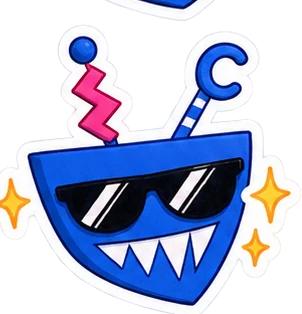
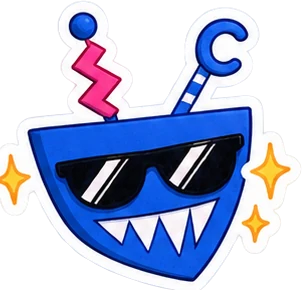
Stickers: drop neighbor fragments; mobile: section sticker no longer overlaps text
Claude-Session: https://claude.ai/code/session_01MMAr13SWE4zTUHVdE4TCR2

diff --git a/ru/index.html b/ru/index.html
@@ -10,7 +10,7 @@
 <link rel="icon" type="image/png" href="../assets/img/favicon-512.png">
 <link rel="apple-touch-icon" href="../apple-touch-icon.png">
 <link rel="preload" href="../assets/fonts/Rubik-cyrillic.woff2" as="font" type="font/woff2" crossorigin>
-<link rel="stylesheet" href="../assets/css/site.css?v=392585cb">
+<link rel="stylesheet" href="../assets/css/site.css?v=5940f699">
 <meta property="og:type" content="website">
 <meta property="og:title" content="Meeto Games (Митогеймс): онлайн-игры в браузере и игры для ПК — Погост, Проект: Реплика">
 <meta property="og:description" content="Meeto Games (Митогеймс) — инди-студия Дмитрия: бесплатные онлайн-игры в браузере без скачивания (Jelly Swirl, Машинки на рогатке, Липкий шар.io) и игры для ПК: готический шутер «Погост» и сетевой хоррор «Проект: Реплика».">
@@ -70,7 +70,7 @@
 </article></div>
 </div></section>
 <section class="sec" id="dev" style="padding-top:8px"><div class="wrap">
-  <div class="sec-head"><h2>В <span>разработке</span></h2><p>Большие и мрачные проекты для ПК, над которыми я работаю прямо сейчас.</p><img class="sticker " src="../assets/img/stickers/cool.webp" alt="" width="302" height="314" loading="lazy" style="--r:-7deg"></div>
+  <div class="sec-head"><h2>В <span>разработке</span></h2><p>Большие и мрачные проекты для ПК, над которыми я работаю прямо сейчас.</p><img class="sticker " src="../assets/img/stickers/cool.webp" alt="" width="302" height="290" loading="lazy" style="--r:-7deg"></div>
   <div class="games two"><article class="gcard dark">
   <a href="../ru/games/pogost/" tabindex="-1" aria-hidden="true" class="cover-link"><img class="cover" src="../assets/img/pogost/cover.webp" alt="" width="960" height="540" loading="lazy"><span class="badge">В разработке</span></a>
   <div class="body">
@@ -94,7 +94,7 @@
   <div class="sec-head"><h2>Обо <span>мне</span></h2></div>
   <div class="about">
     <img class="sticker hi" src="../assets/img/stickers/hi.webp" alt="" width="290" height="284" loading="lazy" style="--r:-5deg">
-    <div class="card"><img class="sticker love" src="../assets/img/stickers/love.webp" alt="" width="298" height="314" loading="lazy" style="--r:12deg"><h3>Привет! Меня зовут Дмитрий, можно просто Мито</h3><p>Я делаю игры в одиночку, а помогает мне в этом искусственный интеллект: код, графика, звук, тестирование. Так один человек может сделать работу небольшой команды.</p><p>Играю всю жизнь, с самого детства, и игры всегда были моим главным увлечением. Теперь я хочу делать качественные игры, в которые по-настоящему интересно играть.</p><p>Одни мои игры яркие и уютные, другие тёмные и страшные. Общее у них одно: внимание к тому, как игра ощущается в руках.</p><div class="where"><span class="chip"><svg viewBox="0 0 24 24" fill="none" stroke="currentColor" stroke-width="2.1" stroke-linecap="round" stroke-linejoin="round" aria-hidden="true"><rect x="2" y="4" width="14" height="10" rx="1.6"/><path d="M6 18h6M9 14v4"/><rect x="17" y="9" width="5" height="11" rx="1.2"/></svg>Браузер и ПК</span><span class="chip"><svg viewBox="0 0 24 24" fill="none" stroke="currentColor" stroke-width="2.1" stroke-linecap="round" stroke-linejoin="round" aria-hidden="true"><path d="M14 6 9 11l-5.5 5.5a2 2 0 0 0 2.8 2.8L12 14l5-5"/><path d="m13 3 8 8-2.5 2.5-8-8Z"/></svg>В одиночку с ИИ</span><span class="chip"><svg viewBox="0 0 24 24" fill="none" stroke="currentColor" stroke-width="2.1" stroke-linecap="round" stroke-linejoin="round" aria-hidden="true"><path d="m12 3 2.7 5.6 6.1.9-4.4 4.3 1 6.1L12 17l-5.4 2.9 1-6.1L3.2 9.5l6.1-.9Z"/></svg>Браузерные игры бесплатные</span></div></div>
+    <div class="card"><img class="sticker love" src="../assets/img/stickers/love.webp" alt="" width="298" height="296" loading="lazy" style="--r:12deg"><h3>Привет! Меня зовут Дмитрий, можно просто Мито</h3><p>Я делаю игры в одиночку, а помогает мне в этом искусственный интеллект: код, графика, звук, тестирование. Так один человек может сделать работу небольшой команды.</p><p>Играю всю жизнь, с самого детства, и игры всегда были моим главным увлечением. Теперь я хочу делать качественные игры, в которые по-настоящему интересно играть.</p><p>Одни мои игры яркие и уютные, другие тёмные и страшные. Общее у них одно: внимание к тому, как игра ощущается в руках.</p><div class="where"><span class="chip"><svg viewBox="0 0 24 24" fill="none" stroke="currentColor" stroke-width="2.1" stroke-linecap="round" stroke-linejoin="round" aria-hidden="true"><rect x="2" y="4" width="14" height="10" rx="1.6"/><path d="M6 18h6M9 14v4"/><rect x="17" y="9" width="5" height="11" rx="1.2"/></svg>Браузер и ПК</span><span class="chip"><svg viewBox="0 0 24 24" fill="none" stroke="currentColor" stroke-width="2.1" stroke-linecap="round" stroke-linejoin="round" aria-hidden="true"><path d="M14 6 9 11l-5.5 5.5a2 2 0 0 0 2.8 2.8L12 14l5-5"/><path d="m13 3 8 8-2.5 2.5-8-8Z"/></svg>В одиночку с ИИ</span><span class="chip"><svg viewBox="0 0 24 24" fill="none" stroke="currentColor" stroke-width="2.1" stroke-linecap="round" stroke-linejoin="round" aria-hidden="true"><path d="m12 3 2.7 5.6 6.1.9-4.4 4.3 1 6.1L12 17l-5.4 2.9 1-6.1L3.2 9.5l6.1-.9Z"/></svg>Браузерные игры бесплатные</span></div></div>
   </div>
 </div></section>
 </main>

diff --git a/index.html b/index.html
@@ -10,7 +10,7 @@
 <link rel="icon" type="image/png" href="assets/img/favicon-512.png">
 <link rel="apple-touch-icon" href="apple-touch-icon.png">
 <link rel="preload" href="assets/fonts/Rubik-latin.woff2" as="font" type="font/woff2" crossorigin>
-<link rel="stylesheet" href="assets/css/site.css?v=392585cb">
+<link rel="stylesheet" href="assets/css/site.css?v=5940f699">
 <meta property="og:type" content="website">
 <meta property="og:title" content="Meeto Games: free online browser games and PC games (Pogost, Project: Replica)">
 <meta property="og:description" content="Meeto Games is an indie studio by Dmitry: free online games you play right in your browser (Jelly Swirl, Toy Cars on a Slingshot, Sticky Roll.io) and PC games in development: the gothic shooter Pogost and the online horror Project: Replica.">
@@ -70,7 +70,7 @@
 </article></div>
 </div></section>
 <section class="sec" id="dev" style="padding-top:8px"><div class="wrap">
-  <div class="sec-head"><h2>In <span>development</span></h2><p>Bigger and darker projects for PC that I&#x27;m working on right now.</p><img class="sticker " src="assets/img/stickers/cool.webp" alt="" width="302" height="314" loading="lazy" style="--r:-7deg"></div>
+  <div class="sec-head"><h2>In <span>development</span></h2><p>Bigger and darker projects for PC that I&#x27;m working on right now.</p><img class="sticker " src="assets/img/stickers/cool.webp" alt="" width="302" height="290" loading="lazy" style="--r:-7deg"></div>
   <div class="games two"><article class="gcard dark">
   <a href="games/pogost/" tabindex="-1" aria-hidden="true" class="cover-link"><img class="cover" src="assets/img/pogost/cover.webp" alt="" width="960" height="540" loading="lazy"><span class="badge">In development</span></a>
   <div class="body">
@@ -94,7 +94,7 @@
   <div class="sec-head"><h2>About <span>me</span></h2></div>
   <div class="about">
     <img class="sticker hi" src="assets/img/stickers/hi.webp" alt="" width="290" height="284" loading="lazy" style="--r:-5deg">
-    <div class="card"><img class="sticker love" src="assets/img/stickers/love.webp" alt="" width="298" height="314" loading="lazy" style="--r:12deg"><h3>Hi! I&#x27;m Dmitry, or just Meeto</h3><p>I make games on my own, and AI helps me with it: code, art, sound, testing. It lets one person do the work of a small team.</p><p>I&#x27;ve been playing games my whole life, since I was a kid, and they have always been my biggest passion. Now I want to make quality games that are genuinely interesting to play.</p><p>Some of my games are bright and cozy, others are dark and scary. What they share is attention to how they feel in your hands.</p><div class="where"><span class="chip"><svg viewBox="0 0 24 24" fill="none" stroke="currentColor" stroke-width="2.1" stroke-linecap="round" stroke-linejoin="round" aria-hidden="true"><rect x="2" y="4" width="14" height="10" rx="1.6"/><path d="M6 18h6M9 14v4"/><rect x="17" y="9" width="5" height="11" rx="1.2"/></svg>Browser and PC</span><span class="chip"><svg viewBox="0 0 24 24" fill="none" stroke="currentColor" stroke-width="2.1" stroke-linecap="round" stroke-linejoin="round" aria-hidden="true"><path d="M14 6 9 11l-5.5 5.5a2 2 0 0 0 2.8 2.8L12 14l5-5"/><path d="m13 3 8 8-2.5 2.5-8-8Z"/></svg>Made solo with AI</span><span class="chip"><svg viewBox="0 0 24 24" fill="none" stroke="currentColor" stroke-width="2.1" stroke-linecap="round" stroke-linejoin="round" aria-hidden="true"><path d="m12 3 2.7 5.6 6.1.9-4.4 4.3 1 6.1L12 17l-5.4 2.9 1-6.1L3.2 9.5l6.1-.9Z"/></svg>Browser games are free</span></div></div>
+    <div class="card"><img class="sticker love" src="assets/img/stickers/love.webp" alt="" width="298" height="296" loading="lazy" style="--r:12deg"><h3>Hi! I&#x27;m Dmitry, or just Meeto</h3><p>I make games on my own, and AI helps me with it: code, art, sound, testing. It lets one person do the work of a small team.</p><p>I&#x27;ve been playing games my whole life, since I was a kid, and they have always been my biggest passion. Now I want to make quality games that are genuinely interesting to play.</p><p>Some of my games are bright and cozy, others are dark and scary. What they share is attention to how they feel in your hands.</p><div class="where"><span class="chip"><svg viewBox="0 0 24 24" fill="none" stroke="currentColor" stroke-width="2.1" stroke-linecap="round" stroke-linejoin="round" aria-hidden="true"><rect x="2" y="4" width="14" height="10" rx="1.6"/><path d="M6 18h6M9 14v4"/><rect x="17" y="9" width="5" height="11" rx="1.2"/></svg>Browser and PC</span><span class="chip"><svg viewBox="0 0 24 24" fill="none" stroke="currentColor" stroke-width="2.1" stroke-linecap="round" stroke-linejoin="round" aria-hidden="true"><path d="M14 6 9 11l-5.5 5.5a2 2 0 0 0 2.8 2.8L12 14l5-5"/><path d="m13 3 8 8-2.5 2.5-8-8Z"/></svg>Made solo with AI</span><span class="chip"><svg viewBox="0 0 24 24" fill="none" stroke="currentColor" stroke-width="2.1" stroke-linecap="round" stroke-linejoin="round" aria-hidden="true"><path d="m12 3 2.7 5.6 6.1.9-4.4 4.3 1 6.1L12 17l-5.4 2.9 1-6.1L3.2 9.5l6.1-.9Z"/></svg>Browser games are free</span></div></div>
   </div>
 </div></section>
 </main>

diff --git a/404.html b/404.html
@@ -10,7 +10,7 @@
 <link rel="icon" type="image/png" href="/assets/img/favicon-512.png">
 <link rel="apple-touch-icon" href="/apple-touch-icon.png">
 <link rel="preload" href="/assets/fonts/Rubik-latin.woff2" as="font" type="font/woff2" crossorigin>
-<link rel="stylesheet" href="/assets/css/site.css?v=392585cb">
+<link rel="stylesheet" href="/assets/css/site.css?v=5940f699">
 <meta property="og:type" content="website">
 <meta property="og:title" content="Page not found | Meeto Games">
 <meta property="og:description" content="Let&#x27;s go back to the games.">
@@ -34,7 +34,7 @@
     <span class="lang"><a href="/" hreflang="en" aria-current="page">EN</a><a href="/ru/" hreflang="ru">RU</a></span>
   </nav>
 </div></header>
-<main id="main" class="wrap nf"><div><img class="sticker " src="/assets/img/stickers/huh.webp" alt="" width="294" height="314" loading="lazy" style="--r:-4deg"><b>404</b><h1 style="font-size:36px;color:var(--ink);margin-top:10px">This page rolled away</h1>
+<main id="main" class="wrap nf"><div><img class="sticker " src="/assets/img/stickers/huh.webp" alt="" width="271" height="293" loading="lazy" style="--r:-4deg"><b>404</b><h1 style="font-size:36px;color:var(--ink);margin-top:10px">This page rolled away</h1>
 <p style="margin:12px 0 26px;color:var(--muted)">Let's go back to the games. / Вернёмся к играм.</p>
 <div class="btns" style="justify-content:center"><a class="btn" href="/">To the home page</a><a class="btn cream" href="/ru/">На главную</a></div></div></main>
 <footer class="foot"><svg class="wave-top" viewBox="0 0 1440 70" preserveAspectRatio="none" aria-hidden="true"><path fill="currentColor" d="M0 36c120 30 240 30 360 0s240-30 360 0 240 30 360 0 240-30 360 0v34H0Z"/></svg><div class="wrap">

diff --git a/ru/games/toy-cars/index.html b/ru/games/toy-cars/index.html
@@ -10,7 +10,7 @@
 <link rel="icon" type="image/png" href="../../../assets/img/favicon-512.png">
 <link rel="apple-touch-icon" href="../../../apple-touch-icon.png">
 <link rel="preload" href="../../../assets/fonts/Rubik-cyrillic.woff2" as="font" type="font/woff2" crossorigin>
-<link rel="stylesheet" href="../../../assets/css/site.css?v=392585cb">
+<link rel="stylesheet" href="../../../assets/css/site.css?v=5940f699">
 <meta property="og:type" content="website">
 <meta property="og:title" content="Машинки на рогатке — играть онлайн бесплатно в браузере | Meeto Games">
 <meta property="og:description" content="Оттяни рогатку, запусти игрушечную машинку и укати как можно дальше: трамплины, сальто и онлайн-гонки! Играйте бесплатно прямо в браузере, без скачивания.">

diff --git a/ru/games/jelly-swirl/index.html b/ru/games/jelly-swirl/index.html
@@ -10,7 +10,7 @@
 <link rel="icon" type="image/png" href="../../../assets/img/favicon-512.png">
 <link rel="apple-touch-icon" href="../../../apple-touch-icon.png">
 <link rel="preload" href="../../../assets/fonts/Rubik-cyrillic.woff2" as="font" type="font/woff2" crossorigin>
-<link rel="stylesheet" href="../../../assets/css/site.css?v=392585cb">
+<link rel="stylesheet" href="../../../assets/css/site.css?v=5940f699">
 <meta property="og:type" content="website">
 <meta property="og:title" content="Jelly Swirl — играть онлайн бесплатно в браузере | Meeto Games">
 <meta property="og:description" content="Яркий конфетный стрелок на 300 уровней. Лопай цепочки конфет, пока они не докатились до водоворота. Играйте бесплатно прямо в браузере, без скачивания.">

diff --git a/ru/games/sticky-roll/index.html b/ru/games/sticky-roll/index.html
@@ -10,7 +10,7 @@
 <link rel="icon" type="image/png" href="../../../assets/img/favicon-512.png">
 <link rel="apple-touch-icon" href="../../../apple-touch-icon.png">
 <link rel="preload" href="../../../assets/fonts/Rubik-cyrillic.woff2" as="font" type="font/woff2" crossorigin>
-<link rel="stylesheet" href="../../../assets/css/site.css?v=392585cb">
+<link rel="stylesheet" href="../../../assets/css/site.css?v=5940f699">
 <meta property="og:type" content="website">
 <meta property="og:title" content="Липкий шар.io — играть онлайн бесплатно в браузере | Meeto Games">
 <meta property="og:description" content="Катай липкий шар по уютному городку и вырасти от крошки до размера дома. Играйте бесплатно прямо в браузере, без скачивания.">

diff --git a/ru/games/pogost/index.html b/ru/games/pogost/index.html
@@ -10,7 +10,7 @@
 <link rel="icon" type="image/png" href="../../../assets/img/favicon-512.png">
 <link rel="apple-touch-icon" href="../../../apple-touch-icon.png">
 
-<link rel="stylesheet" href="../../../assets/css/pogost.css?v=392585cb">
+<link rel="stylesheet" href="../../../assets/css/pogost.css?v=5940f699">
 <meta property="og:type" content="website">
 <meta property="og:title" content="Погост — игра: готический шутер от первого лица | Meeto Games">
 <meta property="og:description" content="Готический шутер от первого лица про борьбу за жизнь. Игрушечный мир, пластиковые солдатики, фарфоровые балерины и волны врагов.">

diff --git a/ru/games/replica/index.html b/ru/games/replica/index.html
@@ -10,7 +10,7 @@
 <link rel="icon" type="image/png" href="../../../assets/img/favicon-512.png">
 <link rel="apple-touch-icon" href="../../../apple-touch-icon.png">
 
-<link rel="stylesheet" href="../../../assets/css/replica.css?v=392585cb">
+<link rel="stylesheet" href="../../../assets/css/replica.css?v=5940f699">
 <meta property="og:type" content="website">
 <meta property="og:title" content="Проект: Реплика — сетевой хоррор, игра на 2–6 игроков | Meeto Games">
 <meta property="og:description" content="Сетевой хоррор в стиле PS1 на 2–6 игроков. Найди в темноте ключ и выберись, но через каждую дверь пройдёт только один.">

diff --git a/games/toy-cars/index.html b/games/toy-cars/index.html
@@ -10,7 +10,7 @@
 <link rel="icon" type="image/png" href="../../assets/img/favicon-512.png">
 <link rel="apple-touch-icon" href="../../apple-touch-icon.png">
 <link rel="preload" href="../../assets/fonts/Rubik-latin.woff2" as="font" type="font/woff2" crossorigin>
-<link rel="stylesheet" href="../../assets/css/site.css?v=392585cb">
+<link rel="stylesheet" href="../../assets/css/site.css?v=5940f699">
 <meta property="og:type" content="website">
 <meta property="og:title" content="Toy Cars on a Slingshot — play free online in your browser | Meeto Games">
 <meta property="og:description" content="Pull the slingshot, launch a toy car and roll as far as you can: ramps, flips and online races! Play free right in your browser, no download.">

diff --git a/games/jelly-swirl/index.html b/games/jelly-swirl/index.html
@@ -10,7 +10,7 @@
 <link rel="icon" type="image/png" href="../../assets/img/favicon-512.png">
 <link rel="apple-touch-icon" href="../../apple-touch-icon.png">
 <link rel="preload" href="../../assets/fonts/Rubik-latin.woff2" as="font" type="font/woff2" crossorigin>
-<link rel="stylesheet" href="../../assets/css/site.css?v=392585cb">
+<link rel="stylesheet" href="../../assets/css/site.css?v=5940f699">
 <meta property="og:type" content="website">
 <meta property="og:title" content="Jelly Swirl — play free online in your browser | Meeto Games">
 <meta property="og:description" content="A bright candy marble shooter with 300 levels. Pop the candy chains before they roll into the swirl. Play free right in your browser, no download.">

diff --git a/games/sticky-roll/index.html b/games/sticky-roll/index.html
@@ -10,7 +10,7 @@
 <link rel="icon" type="image/png" href="../../assets/img/favicon-512.png">
 <link rel="apple-touch-icon" href="../../apple-touch-icon.png">
 <link rel="preload" href="../../assets/fonts/Rubik-latin.woff2" as="font" type="font/woff2" crossorigin>
-<link rel="stylesheet" href="../../assets/css/site.css?v=392585cb">
+<link rel="stylesheet" href="../../assets/css/site.css?v=5940f699">
 <meta property="og:type" content="website">
 <meta property="og:title" content="Sticky Roll.io — play free online in your browser | Meeto Games">
 <meta property="og:description" content="Roll a sticky ball around a cozy town and grow from crumb-sized to house-sized. Play free right in your browser, no download.">

diff --git a/games/replica/index.html b/games/replica/index.html
@@ -10,7 +10,7 @@
 <link rel="icon" type="image/png" href="../../assets/img/favicon-512.png">
 <link rel="apple-touch-icon" href="../../apple-touch-icon.png">
 
-<link rel="stylesheet" href="../../assets/css/replica.css?v=392585cb">
+<link rel="stylesheet" href="../../assets/css/replica.css?v=5940f699">
 <meta property="og:type" content="website">
 <meta property="og:title" content="Project: Replica — online horror game for 2–6 players | Meeto Games">
 <meta property="og:description" content="A PS1-style online horror for 2 to 6 players. Find a key in the dark and get out, but only one can pass through each door.">
